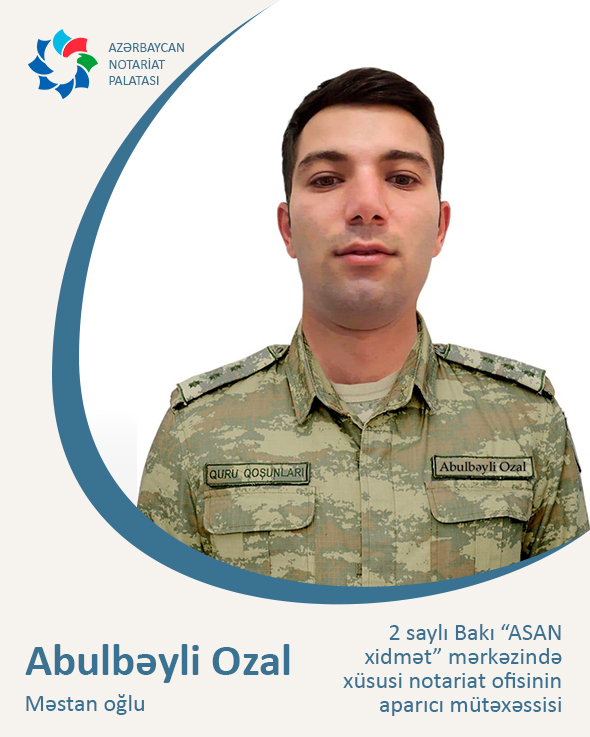
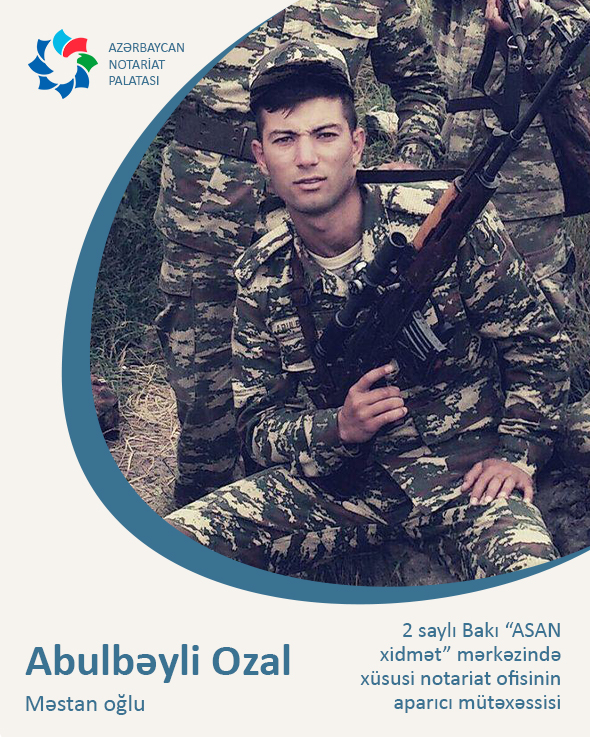
ozal's photo changed, texts rewritten

diff --git a/src/views/ozal.vue b/src/views/ozal.vue
@@ -4,7 +4,7 @@
     <page
       title="Abulbəyli Ozal Məstan oğlu"
       image="ozal.jpg"
-      body="<p>Abulbəyli Ozal Məstan oğlu, 04.05.1992-ci ildə Bakı şəhərində anadan olmuşdur. Orta təhsilini 1998-2009-cu illərdə Bakı şəhəri, Binəqədi rayonu 99 saylı orta məktəbdə almışdır. Ali təhsilini 2010-2014-cü illərdə Bakı Dövlət Universitetinin Coğrafiya fakültəsinin İqtisadi Sosial Coğrafiya ixtisası üzrə almışdır. 2014-cü ildə Silahlı Qüvəllərin Təlim və Tədris Mərkəzinin Ehtiyyat zabit hazırlığı kursuna daxil olmuşdur. 02.02.2015-ci il tarixdə həmin kursu bitirib, leytenant hərbi rütbəsi almışdır. 2015-ci ilin mart ayında 191 saylı hərbi hissənin 4-cü tabor 12-ci bölük komandirinin şəxsi heyətlə iş üzrə müavini vəzifəsində xidmət etmişdir. 01.10.2016-cı il tarixdə müqavilə müddətinin bitməsi səbəbindən ehtiyyata buraxılmışdır. 30.10.2017-31.07.2019-cu illərdə Cybernet MMC-də nəzarətçi vəzifəsində çalışmışdır. 13.09.2019- cu il tarixindən etibarən 2 saylı Bakı “ASAN xidmət” mərkəzinin notariat ofisində baş mütəxəssis (böyük inspektor) vəzifəsində çalışır. 21.09.2020-ci il tarixdə Bakı şəhəri, Binəqədi rayon hərbi komisarlığı tərəfindən Silahlı Qüvvələrin təliminə cəlb edilmişdir. 29.09.2020-ci il tarixdə Ali Baş Komandanın əmrinə əsasən işğal olunmuş torpaqlarımızın azad olunması uğrunda döyüşlərə qatılmışdır. 14.10.2020-ci il tarixdə Füzuli uğrunda gedən döyüşlərdə yaralanmışdır. 
+      body="<p>Abulbəyli Ozal Məstan oğlu, 04.05.1992-ci ildə Bakı şəhərində anadan olmuşdur. Orta təhsilini 1998-2009-cu illərdə Bakı şəhəri, Binəqədi rayonu 99 saylı orta məktəbdə almışdır. Ali təhsilini 2010-2014-cü illərdə Bakı Dövlət Universitetinin Coğrafiya fakültəsinin İqtisadi Sosial Coğrafiya ixtisası üzrə almışdır. 2014-cü ildə Silahlı Qüvəllərin Təlim və Tədris Mərkəzinin Ehtiyyat zabit hazırlığı kursuna daxil olmuşdur. 02.02.2015-ci il tarixdə həmin kursu bitirib, leytenant hərbi rütbəsi almışdır. 2015-ci ilin mart ayında 191 saylı hərbi hissənin 4-cü tabor 12-ci bölük komandirinin şəxsi heyətlə iş üzrə müavini vəzifəsində xidmət etmişdir. 01.10.2016-cı il tarixdə müqavilə müddətinin bitməsi səbəbindən ehtiyyata buraxılmışdır. 13.09.2019- cu il tarixindən etibarən 2 saylı Bakı “ASAN xidmət” mərkəzinin notariat ofisində baş mütəxəssis (böyük inspektor) vəzifəsində çalışır. 21.09.2020-ci il tarixdə Bakı şəhəri, Binəqədi rayon hərbi komisarlığı tərəfindən Silahlı Qüvvələrin təliminə cəlb edilmişdir. 29.09.2020-ci il tarixdə Ali Baş Komandanın əmrinə əsasən işğal olunmuş torpaqlarımızın azad olunması uğrunda döyüşlərə qatılmışdır. 14.10.2020-ci il tarixdə Füzuli uğrunda gedən döyüşlərdə yaralanmışdır.  
 </p><p>Azərbaycan Respublikasının ədliyyə naziri I dərəcəli dövlət ədliyyə müşaviri Fikrət Məmmədovun əmrinə əsasən Vətən müharibəsində iştirak edərək fədakarlıq göstərdiyinə görə Fəxri fərmanla təltif edilmişdir.</p>"
       next="../../views/eli"
       previous="../../views/nofer"

diff --git a/src/views/shamxal.vue b/src/views/shamxal.vue
@@ -5,10 +5,8 @@
       title="Zeynalov Şamxal Mübariz oğlu"
       image="shamxal.jpg"
       body="
-    <p>Məmmədli Ayxan Qüdrət oğlu, 21.09.1996-cı ildə Bakı şəhərində anadan olmuşdur. 2002-2013-cü illərdə Bakı şəhəri, Yasamal rayonu 153 saylı orta məktəbdə almışdır. Ali təhsilini Milli Aviasiya Akademiyasının Uçuş Mühəndisliyi (təyyarə) ixtisasına tələb olunan “Psixofizioloji peşə seçimi” və “Fiziki hazırlıq” üzrə xüsusi qabiliyyət müsabiqələrini və Dövlət imtahan mərkəzi tərəfindən keçirilən qəbul imtahanında müəyyən balı toplayaraq, ali təhsilin bakalavr pilləsi üzrə almışdır. 2018-2019-cu illərdə həqiqi hərbi xidmətdə olmuşdur. 03.07.2020-ci il tarixdə 52 saylı notariat ofisində könüllü kimi fəaliyyətə başlamışdır. 28.09.2020-ci il tarixdə Yasamal rayon hərbi komissarlığı tərəfindən Silahlı Qüvvələrin təliminə cəlb olunmuş, 29.09.2021-ci il tarixdə Ali Baş Komandanın əmrinə əsasən işğal olunmuş torpaqlarımızın azad olunması uğrunda döyüşlərə qatılmışdır. Cəbrayıl, Füzuli, Xocavənd rayonlarının azadlığı uğrunda gedən döyüşlərdə iştirak etmişdir. Laçın rayonu işğaldan azad olunduqdan sonra 08.12.2020-ci il tarixində tabor şəklində Laçın rayonu Bülüldüz kəndinə daxil olmuşdur. 31.12.2020-ci il tarixində ehtiyata buraxılmışdır. 
-    </p>
-    <p>Azərbaycan Respublikasının ədliyyə naziri I dərəcəli dövlət ədliyyə müşaviri Fikrət Məmmədovun əmrinə əsasən Vətən müharibəsində iştirak edərək fədakarlıq göstərdiyinə görə Fəxri fərmanla təltif edilmişdir.</p>
-"
+    <p>Zeynalov Şamxal Mübariz oğlu, 01.09.1988-ci ildə Bərdə rayonunun Şirvanlı kəndində anadan olmuşdur. Orta təhsilini Bərdə rayonu, Vüqar Sadıqov adına Şirvanlı kənd orta məktəbində almışdır. Ali təhsilini 2005-2010-cu illərdə Lənkəran Dövlət Universitetinin Humanitar və Pedaqoji elmlər fakültəsinin İngilis dili və ədəbiyyatı ixtisası üzrə almışdır. Hazırda Bərdə Regional “ASAN xidmət” mərkəzinin notariat ofisində baş mütəxəssis (böyük inspektor) vəzifəsində çalışır. 28.09.2020-12.01.2021-ci il tarixlərində ali baş komandanın sərəncamı ilə II Qarabağ müharibəsində, xüsusən də Goranboy və Laçın bölgələrində gedən döyüşlərdə iştirak etmişdir. Hərbi rütbəsi Baş leytenantdır. </p>
+    <p>Azərbaycan Respublikasının ədliyyə naziri I dərəcəli dövlət ədliyyə müşaviri Fikrət Məmmədovun əmrinə əsasən Vətən müharibəsində iştirak edərək fədakarlıq göstərdiyinə görə Fəxri fərmanla təltif edilmişdir.</p>"
       next="../../views/ayxan"
       previous="../../views/ziya"
     />

diff --git a/src/views/ziya.vue b/src/views/ziya.vue
@@ -6,19 +6,9 @@
       image="ziya.jpg"
       body="
     
-    <p> Ağazadə Ziya Əvəzağa oğlu, 13.01.1993-cü il tarixdə Əli-Bayramlı şəhərində anadan olmuşdur. Orta təhsilini 2000-2011-ci 
-    il tarixlərdə Şirvan şəhər Elçin İmanov adına 10 saylı tam orta məktəbdə almışdır. Ali təhsilini 
-    2011-2015-ci illərdə Azərbaycan Memarlıq və İnşaat Universitetinin İnşaat fakültəsində almışdır. 
-    2017-ci il tarixdə Sabirabad “ASAN xidmət” mərkəzində könüllü fəaliyyət göstərmişdir. 2018-ci il 
-    tarixdən etibarən Şirvan şəhər 1 saylı notariat ofisində aparıcı mütəxəssis vəzifəsində çalışır. 
-    29.09.2020-ci tarixdə Ali Baş Komandanın əmrinə əsasən işğal olunmuş torpaqlarımızın azad olunması 
-    uğrunda döyüşlərə qatılmışdır.</p>
+    <p> Ağazadə Ziya Əvəzağa oğlu, 13.01.1993-cü il tarixdə Əli-Bayramlı şəhərində                        (indiki Şirvan şəhəri) anadan olmuşdur. Orta təhsilini 2000-2011-ci il tarixlərdə Şirvan şəhəri, Elçin İmanov adına 10 saylı tam orta məktəbdə almışdır. Ali təhsilini 2011-2015-ci illərdə Azərbaycan Memarlıq və İnşaat Universitetinin İnşaat fakültəsində almışdır. 2018-ci il tarixdən etibarən Şirvan şəhər 1 saylı notariat ofisində aparıcı mütəxəssis vəzifəsində çalışır. 29.09.2020-ci tarixdə Ali Baş Komandanın əmrinə əsasən işğal olunmuş torpaqlarımızın azad olunması uğrunda döyüşlərə qatılmışdır. </p>
     
-    <p> Azərbaycan Respublikası Prezidenti, Silahlı Qüvvələrin Ali Baş Komandanı 
-    İlham Əliyevin sərəncamlarına əsasən “Cəbrayılın azad olunmasına görə”, “Qubadlının azad olunmasına görə” 
-    və “Cəsur döyüşçü” medalları ilə, o cümlədən Azərbaycan Respublikasının ədliyyə naziri I dərəcəli dövlət 
-    ədliyyə müşaviri Fikrət Məmmədovun əmrinə əsasən Vətən müharibəsində iştirak edərək fədakarlıq 
-    göstərdiyinə görə Fəxri fərmanla təltif edilmişdir. </p>"
+    <p> Azərbaycan Respublikası Prezidenti, Silahlı Qüvvələrin Ali Baş Komandanı İlham Əliyevin sərəncamlarına əsasən “Cəbrayılın azad olunmasına görə”, “Qubadlının azad olunmasına görə” və “Cəsur döyüşçü” medalları ilə, o cümlədən Azərbaycan Respublikasının ədliyyə naziri I dərəcəli dövlət ədliyyə müşaviri Fikrət Məmmədovun əmrinə əsasən Vətən müharibəsində iştirak edərək fədakarlıq göstərdiyinə görə Fəxri fərmanla təltif edilmişdir.  </p>"
       next="../../views/shamxal"
       previous="../../views/eli"
     />

diff --git a/src/views/ayxan.vue b/src/views/ayxan.vue
@@ -5,8 +5,7 @@
       title="Məmmədli Ayxan Qüdrət oğlu"
       image="ayxan.jpg"
       body="
-      <p>Məmmədli Ayxan Qüdrət oğlu, 21.09.1996-cı ildə Bakı şəhərində anadan olmuşdur. 2002-2013-cü illərdə Bakı şəhəri, Yasamal rayonu 153 saylı orta məktəbdə almışdır. Ali təhsilini Milli Aviasiya Akademiyasının Uçuş Mühəndisliyi (təyyarə) ixtisasına tələb olunan “Psixofizioloji peşə seçimi” və “Fiziki hazırlıq” üzrə xüsusi qabiliyyət müsabiqələrini və Dövlət imtahan mərkəzi tərəfindən keçirilən qəbul imtahanında müəyyən balı toplayaraq, ali təhsilin bakalavr pilləsi üzrə almışdır. 2018-2019-cu illərdə həqiqi hərbi xidmətdə olmuşdur. 03.07.2020-ci il tarixdə 52 saylı notariat ofisində könüllü kimi fəaliyyətə başlamışdır. 28.09.2020-ci il tarixdə Yasamal rayon hərbi komissarlığı tərəfindən Silahlı Qüvvələrin təliminə cəlb olunmuş, 29.09.2021-ci il tarixdə Ali Baş Komandanın əmrinə əsasən işğal olunmuş torpaqlarımızın azad olunması uğrunda döyüşlərə qatılmışdır. Cəbrayıl, Füzuli, Xocavənd rayonlarının azadlığı uğrunda gedən döyüşlərdə iştirak etmişdir. Laçın rayonu işğaldan azad olunduqdan sonra 08.12.2020-ci il tarixində tabor şəklində Laçın rayonu Bülüldüz kəndinə daxil olmuşdur. 31.12.2020-ci il tarixində ehtiyata buraxılmışdır. 
-    </p>
+      <p>Məmmədli Ayxan Qüdrət oğlu, 21.09.1996-cı ildə Bakı şəhərində anadan olmuşdur. Orta təhsilini 2002-2013-cü illərdə Bakı şəhəri, Yasamal rayonu 153 saylı orta məktəbdə almışdır. Ali təhsilini Milli Aviasiya Akademiyasının Uçuş Mühəndisliyi ixtisası üzrə almışdır. 2018-2019-cu illərdə həqiqi hərbi xidmətdə olmuşdur. 03.07.2020-ci il tarixdən Bakı şəhəri, 52 saylı notariat ofisində könüllü kimi fəaliyyətə başlamışdır. 28.09.2020-ci il tarixdə Yasamal rayon hərbi komissarlığı tərəfindən Silahlı Qüvvələrin təliminə cəlb olunmuş, 29.09.2021-ci il tarixdə Ali Baş Komandanın əmrinə əsasən işğal olunmuş torpaqlarımızın azad olunması uğrunda döyüşlərə qatılmışdır. Cəbrayıl, Füzuli, Xocavənd rayonlarının azadlığı uğrunda gedən döyüşlərdə iştirak etmişdir. </p>
     <p>Azərbaycan Respublikasının ədliyyə naziri I dərəcəli dövlət ədliyyə müşaviri Fikrət Məmmədovun əmrinə əsasən Vətən müharibəsində iştirak edərək fədakarlıq göstərdiyinə görə Fəxri fərmanla təltif edilmişdir.</p>"
       next="../../views/nofer"
       previous="../../views/shamxal"

diff --git a/src/views/nofer.vue b/src/views/nofer.vue
@@ -4,7 +4,7 @@
     <page
       title="Xodayev Nofər Nemət oğlu"
       image="nofer.jpg"
-      body="<p>Xodayev Nofər Nemət oğlu, 24 may 1996-cı ildə Balakən rayonunun Katex kəndində anadan olmuşdur. Orta təhsilini 2002-2013-cü illərdə Balakən rayonu Katex kənd 1 saylı tam orta məktəbdə almışdır. Ali təhsilini 2013-2017-ci illərdə Azərbaycan Dövlət İqtisad Universitetinin İnformatika və İdarəetmə fakültəsinin Menecment ixtisası üzrə almışdır. 2017-2018-ci illərdə həqiqi hərbi xidmətdə olmuşdur. 23.09.2019-cu il tarixindən  etibarən 2 saylı Bakı “ASAN xidmət” mərkəzinin notariat ofisində baş mütəxəssis (böyük inspektor) vəzifəsində çalışır. 28.09.2020-ci il tarixdə Bakı şəhəri, Nəsimi rayon hərbi komissarlığı tərəfindən Silahlı Qüvvələrin təliminə cəlb olunmuş, 03.10.2020-ci il tarixdə Ali Baş Komandanın əmrinə əsasən işğal olunmuş torpaqlarımızın azad olunması uğrunda döyüşlərə qatılmışdır. Füzuli, Cəbrayıl və Xocavənd rayonları istiqamətində gedən döyüşlərdə iştirak etmişdir. 
+      body="<p>XXodayev Nofər Nemət oğlu, 24 may 1996-cı ildə Balakən rayonunun Katex kəndində anadan olmuşdur. Orta təhsilini 2002-2013-cü illərdə Balakən rayonu, Katex kənd 1 saylı tam orta məktəbdə almışdır. Ali təhsilini 2013-2017-ci illərdə Azərbaycan Dövlət İqtisad Universitetinin İnformatika və İdarəetmə fakültəsinin Menecment ixtisası üzrə almışdır. 2017-2018-ci illərdə həqiqi hərbi xidmətdə olmuşdur. 23.09.2019-cu il tarixindən etibarən 2 saylı Bakı “ASAN xidmət” mərkəzinin notariat ofisində baş mütəxəssis (böyük inspektor) vəzifəsində çalışır. 28.09.2020-ci il tarixdə Bakı şəhəri, Nəsimi rayon hərbi komissarlığı tərəfindən Silahlı Qüvvələrin təliminə cəlb olunmuş, 03.10.2020-ci il tarixdə Ali Baş Komandanın əmrinə əsasən işğal olunmuş torpaqlarımızın azad olunması uğrunda döyüşlərə qatılmışdır. Füzuli, Cəbrayıl və Xocavənd rayonları istiqamətində gedən döyüşlərdə iştirak etmişdir.  
     </p><p>Azərbaycan Respublikasının ədliyyə naziri I dərəcəli dövlət ədliyyə müşaviri Fikrət Məmmədovun əmrinə əsasən Vətən müharibəsində iştirak edərək fədakarlıq göstərdiyinə görə Fəxri fərmanla təltif edilmişdir.</p>"
       next="../../views/ozal"
       previous="../../views/ayxan"

diff --git a/src/views/eli.vue b/src/views/eli.vue
@@ -4,7 +4,7 @@
     <page
       title="Novruzov Əli Novruz oğlu"
       image="eli.jpg"
-      body="Novruzov Əli Novruz oğlu, 17.03.1995-ci ildə Zaqatala rayonunda anadan olmuşdur. Orta təhsilini Zaqatala şəhər Ş.Qurbanov adına 3 saylı orta məktəbdə almışdır. Ali təhsilini Zaqatala rayon Dövlət İdarəetma və Texnologiya Kollecində almışdır. 2015-2017-ci illərdə hərbi xidmətdə olmuşdur. 2017-2018-ci illərdə Mol Bulak kredit təşkilatında çalışmışdır. 2019-cu ilin noyabr ayından etibarən Balakən Regional “ASAN xidmət” mərkəzinin Qeydiyyat şõbəsində baş mütəxəssis vəzifəsində çalışır. 30.10.2020-ci il tarixdən 31.12.2020-ci il tarixədək Vətən müharibasində iştirak etmişdir."
+      body="Novruzov Əli Novruz oğlu, 17.03.1995-ci ildə Zaqatala rayonunda anadan olmuşdur. Orta təhsilini Zaqatala şəhəri, Ş.Qurbanov adına 3 saylı orta məktəbdə almışdır. Ali təhsilini Zaqatala rayon Dövlət İdarəetma və Texnologiya Kollecində almışdır. 2015-2017-ci illərdə hərbi xidmətdə olmuşdur. 2017-2018-ci illərdə kredit təşkilatında çalışmışdır. 2019-cu ilin noyabr ayından etibarən Balakən Regional “ASAN xidmət” mərkəzinin Qeydiyyat şõbəsində baş mütəxəssis vəzifəsində çalışır. 30.10.2020-ci il tarixdən 31.12.2020-ci il tarixədək Vətən müharibəsində iştirak etmişdir."
       next="../../views/ziya"
       previous="../../views/ozal"
     />
